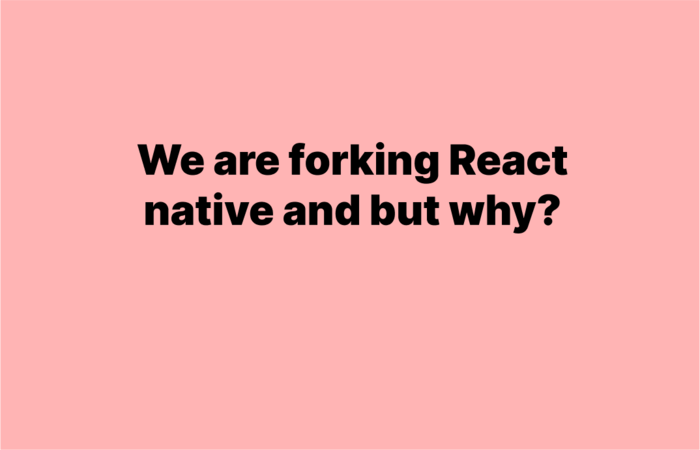
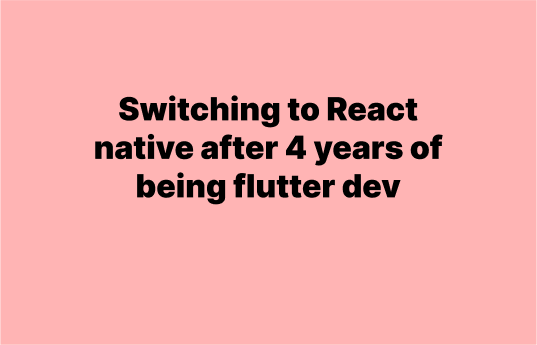
change of plans

Changed region(s): [[0.1788, 0.2609, 0.8343, 0.6087]]

diff --git a/pages/switching/index.tsx b/pages/switching/index.tsx
@@ -13,15 +13,15 @@ export default function Component() {
         <meta name="twitter:creator" content="@anshrathodfr" />
         <meta
           name="twitter:title"
-          content="We're forking React native. This is why"
+          content="I'm switching to react native. This is why"
         />
         <meta
           property="og:title"
-          content="We're forking React native. This is why"
+          content="I'm switching to react native. This is why"
         />
         <meta
           property="og:site_name"
-          content="We're forking React native. This is why"
+          content="I'm switching to react native. This is why"
         />
         <meta
           name="twitter:image"
@@ -38,7 +38,8 @@ export default function Component() {
         <div className="h-60"></div>
         <article className="max-w-3xl mx-auto space-y-8">
           <h1 className="text-4xl md:text-5xl font-bold leading-tight tracking-tight">
-            We&apos;re forking React native. This is why.
+            After 4 years of building in flutter I&apos;m switching to react
+            native. This is why.
           </h1>
 
           <div className="flex items-center gap-3">
@@ -62,25 +63,28 @@ export default function Component() {
             <p>
               Over the years, There are many debates or Beginners questioning on
               whether React Native is best or flutter? I am here to answer none
-              of your questions. Go touch grass you computer nerd, cut down the
-              internet for a day and eat ice creem it&apos;s better than posting
-              memes on twitter and disucssing in comments. and about the
-              framework just use flutter if google kills flutter one day who
-              cares! we all can laugh at each other make more memes to share on
-              twitter and we all can go back to writing html css. in the end,
-              having fun is all that matters.
+              of your questions. it was clickbait to get you here, Go touch
+              grass you computer nerd, cut down the internet for a day and eat
+              ice creem it&apos;s better than posting memes on twitter thats
+              what my mom said. and about the switching framework i just use
+              flutter why would i spend more time learning new framework, jsx
+              syntex are bad and has horrible dev exprience with typescript type
+              errors eww, if google kills flutter one day i dont care! we all
+              will laugh and will make more memes to share on twitter and we all
+              can go back to writing html css. in the end, having fun is all
+              that matters.
             </p>
 
             <h2 className="text-3xl font-bold mt-12 mb-6">
-              React Native&apos;s not shortage of labour
+              React Native&apos;s is the best (maybe)
             </h2>
 
             <p>
-              if you wanna build a app chose react native, if you wanna have fun
-              chose flutter, if you wanna make money lets share memes on
+              if you wanna build a app choose react native, if you wanna have
+              fun cho0se flutter, if you wanna make money lets share memes on
               twitter, i chose twitter that why im writing and yeah i built
-              desktop app using flutter(i dont care tech stack you shouldnt too)
-              called{" "}
+              desktop app using flutter(i dont care about tech stack you
+              shouldnt too) called{" "}
               <Link href={"https://pimosa.app"} className="text-blue-500">
                 <span className="text-blue-400 cursor-pointer">
                   Pimosa it&apos;s all in one media tool kit buy now it is
@@ -88,7 +92,12 @@ export default function Component() {
                 </span>
               </Link>{" "}
               if flutter dies i dont care I&apos;m learning game dev, building
-              UI is boring now after doing it for the 4 years.
+              UI is boring now after doing it for the 4 years. My belief is that
+              make money by giving value to users and have fun, generally i like
+              building so i dont care about the tech stack, i just want to build
+              something that will be useful to users. dont get attached to these
+              frameworks its just zeros and onezies, 2030 nope i wont be using
+              it, or will i? maybe not maybe
             </p>
 
             <p>
